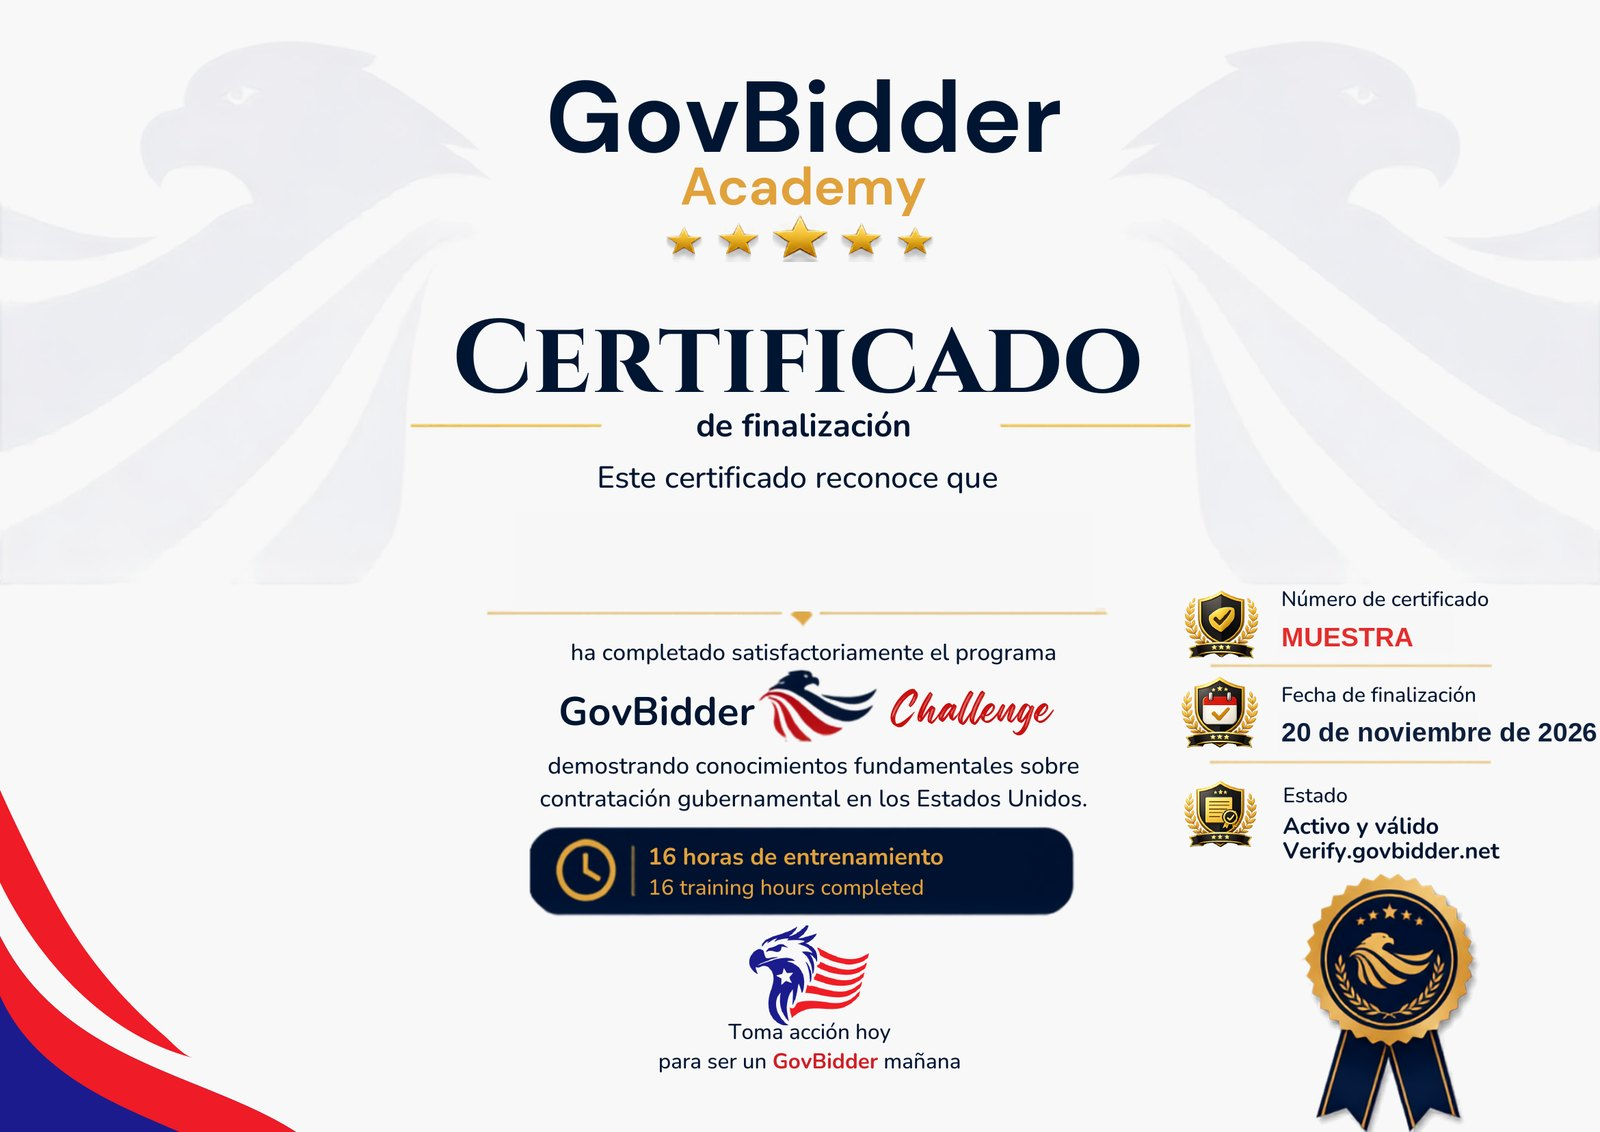
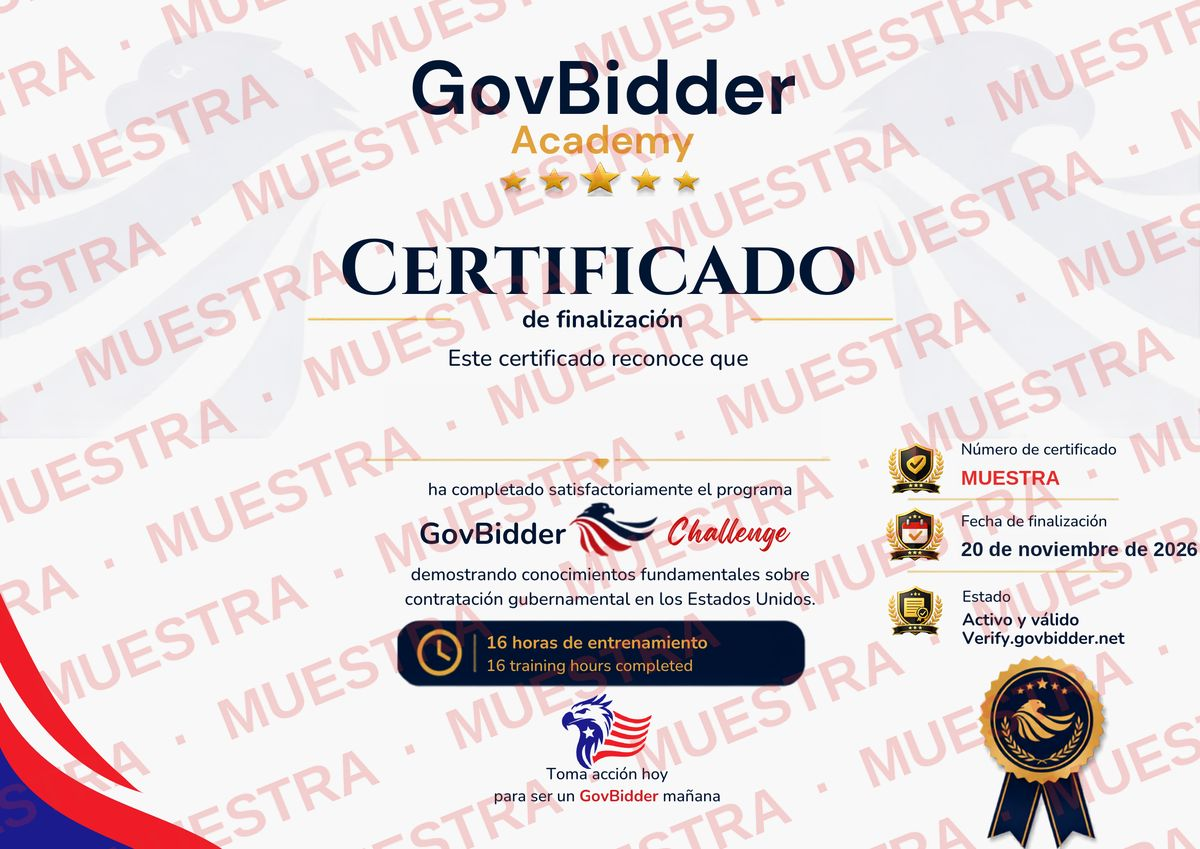
Muestra del certificado: marca de agua grabada en la imagen y resolución menor
Antes la marca de agua era solo HTML y el .jpg se podía bajar limpio.

Claude-Session: https://claude.ai/code/session_01KneUmeXWbK1CzFjN6oZBRa

diff --git a/app/dashboard/home-client.tsx b/app/dashboard/home-client.tsx
@@ -1002,12 +1002,12 @@ function CertificateModal({ onClose, name }: { onClose: () => void; name: string
         </button>
 
         {/* Certificado: muestra con el diseño REAL (plantilla de Canva del certificado que se
-            emite, sin firma ni QR, número "MUESTRA" y fecha de cierre del challenge). Encima va
-            el nombre del alumno y la marca de agua. Medidas en pt de la plantilla (842.25 × 595.5),
+            emite, sin firma ni QR, número "MUESTRA", fecha de cierre del challenge y marca de agua
+            MUESTRA grabada en la imagen). Encima va el nombre del alumno. Medidas en pt de la plantilla (842.25 × 595.5),
             igual que lib/pdf.js del verificador. */}
         <div style={{
           position: "relative", overflow: "hidden", borderRadius: "14px",
-          aspectRatio: "1600 / 1132", background: "#f8f8f8",
+          aspectRatio: "1200 / 849", background: "#f8f8f8",
           boxShadow: "0 30px 80px rgba(0,0,0,0.55)",
           containerType: "inline-size",
         }}>
@@ -1027,23 +1027,6 @@ function CertificateModal({ onClose, name }: { onClose: () => void; name: string
             fontSize: `${(namePt / 842.25) * 100}cqw`, color: "#0d1f3d",
           }}>
             {displayName}
-          </div>
-
-          {/* Marca de agua MUESTRA — evita que se use la muestra como certificado real */}
-          <div aria-hidden style={{
-            position: "absolute", inset: 0, pointerEvents: "none", overflow: "hidden",
-            display: "flex", flexDirection: "column", justifyContent: "center", gap: "4.2cqw",
-            transform: "rotate(-22deg) scale(1.5)", opacity: 0.2,
-          }}>
-            {Array.from({ length: 8 }).map((_, i) => (
-              <div key={i} style={{
-                whiteSpace: "nowrap", textAlign: "center",
-                fontFamily: "Helvetica, Arial, sans-serif", fontWeight: 800, fontSize: "4.6cqw",
-                letterSpacing: "0.9cqw", color: "#E42D2C",
-              }}>
-                MUESTRA&nbsp;·&nbsp;MUESTRA&nbsp;·&nbsp;MUESTRA&nbsp;·&nbsp;MUESTRA&nbsp;·&nbsp;MUESTRA
-              </div>
-            ))}
           </div>
         </div>
 
